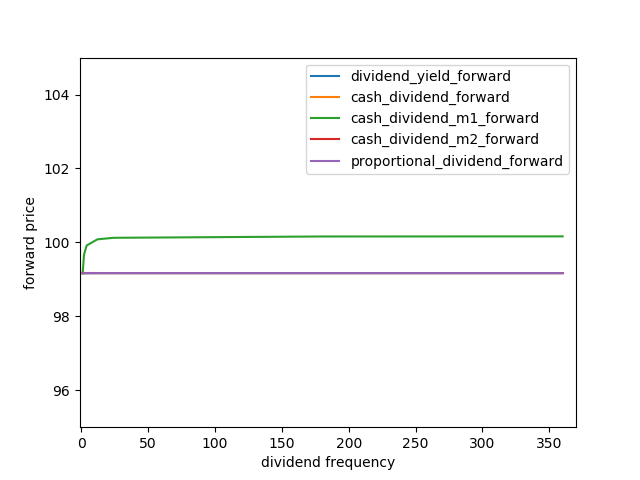
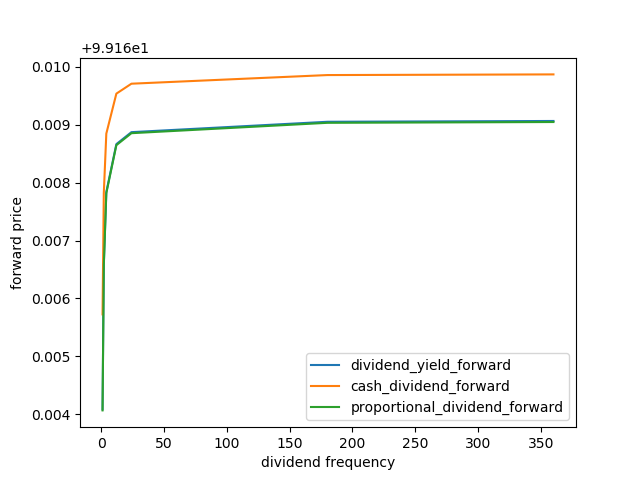
+ Frishling models

diff --git a/main.py b/main.py
@@ -15,39 +15,6 @@ market = MarketData(spot=S0, vol=vol, r=r)
 delta = 0.01
 
 # TODO: this div amount is inconsistent with the rest
-'''market.set_div(div_amount=0.01, div_type=DividendType.ContinuousYield)
-
-K = 100
-T = 360
-t = 0
-option = EuropeanOption(K=K, T=T, t=t, cp=1)
-forward = Forward(K=0.0, T=T, t=t, cp=1)
-n_path = 100000
-model = MonteCarlo(n_path, t, T)
-
-Price(option, market, Analytic())
-market.reset_div()
-dividend1 = market.div_convert(div_amount=delta, fr_type=DividendType.DiscreteProp,
-                               to_type=DividendType.ContinuousYield)
-market.set_div(div_amount=dividend1, div_type=DividendType.ContinuousYield)
-Price(option, market, model)
-Price(forward, market, model)
-
-market.reset_div()
-d = market.div_convert(div_amount=delta, fr_type=DividendType.DiscreteProp, to_type=DividendType.DiscreteCash)
-dividend2 = np.zeros(360)
-dividend2[179] = d  # d = S0*e^(rt)*delta
-market.set_div(div_amount=dividend2, div_type=DividendType.DiscreteCash)
-Price(option, market, model)
-Price(forward, market, model)
-
-market.reset_div()
-dividend3 = np.zeros(360)
-dividend3[179] = delta
-market.set_div(div_amount=dividend3, div_type=DividendType.DiscreteProp)
-Price(option, market, model)
-Price(forward, market, model)'''
-
 market.set_div(div_amount=0.01, frequency=180, div_type=DividendType.ContinuousYield)
 
 K = 100
@@ -72,8 +39,6 @@ Price(forward, market, model)
 # discrete cash
 market.reset_div()
 d = market.div_convert(div_amount=delta, frequency=1, fr_type=DividendType.DiscreteProp, to_type=DividendType.DiscreteCash)
-'''dividend2 = np.zeros(360)
-dividend2[179] = d  # d = S0*e^(rt)*delta'''
 market.set_div(div_amount=d, frequency=1, div_type=DividendType.DiscreteCash)
 Price(option, market, model)
 Price(forward, market, model)
@@ -94,8 +59,6 @@ Price(forward, market, model)
 
 # discrete proportional
 market.reset_div()
-'''dividend3 = np.zeros(360)
-dividend3[179] = delta'''
 market.set_div(div_amount=delta, frequency=1, div_type=DividendType.DiscreteProp)
 Price(option, market, model)
 Price(forward, market, model)
@@ -188,11 +151,11 @@ np.save('./results/cash_dividend_m1_freq.npy', cash_dividend_freq)
 np.save('./results/cash_dividend_m2_freq.npy', cash_dividend_freq)
 np.save('./results/proportional_dividend_freq.npy', proportional_dividend_freq)
 
-plt.axis([-1,370,3,6])
+#plt.axis([-1,370,3,6])
 plt.plot(frequency, dividend_yield_freq, label='dividend_yield')
 plt.plot(frequency, cash_dividend_freq, label='cash_dividend')
-plt.plot(frequency, cash_dividend_m1_freq, label='cash_dividend_m1')
-plt.plot(frequency, cash_dividend_m2_freq, label='cash_dividend_m2')
+#plt.plot(frequency, cash_dividend_m1_freq, label='cash_dividend_m1')
+#plt.plot(frequency, cash_dividend_m2_freq, label='cash_dividend_m2')
 plt.plot(frequency, proportional_dividend_freq, label='proportional_dividend')
 plt.legend()
 plt.xlabel('dividend frequency')
@@ -202,20 +165,39 @@ plt.show()
 
 np.save('./results/dividend_yield_forward.npy', dividend_yield_forward)
 np.save('./results/cash_dividend_forward.npy', cash_dividend_forward)
-np.save('./results/cash_dividend_m1_forward.npy', cash_dividend_forward)
-np.save('./results/cash_dividend_m2_forward.npy', cash_dividend_forward)
+np.save('./results/cash_dividend_m1_forward.npy', cash_dividend_m1_forward)
+np.save('./results/cash_dividend_m2_forward.npy', cash_dividend_m2_forward)
 np.save('./results/proportional_dividend_forward.npy', proportional_dividend_forward)
 
-plt.axis([-1,370,95,105])
+#plt.axis([-1,370,95,105])
 plt.plot(frequency, dividend_yield_forward, label='dividend_yield_forward')
 plt.plot(frequency, cash_dividend_forward, label='cash_dividend_forward')
-plt.plot(frequency, cash_dividend_m1_forward, label='cash_dividend_m1_forward')
-plt.plot(frequency, cash_dividend_m2_forward, label='cash_dividend_m2_forward')
+#plt.plot(frequency, cash_dividend_m1_forward, label='cash_dividend_m1_forward')
+#plt.plot(frequency, cash_dividend_m2_forward, label='cash_dividend_m2_forward')
 plt.plot(frequency, proportional_dividend_forward, label='proportional_dividend_forward')
 plt.legend()
 plt.xlabel('dividend frequency')
 plt.ylabel('forward price')
 plt.savefig("./results/frequency-forward.png")
+plt.show()
+
+
+plt.plot(frequency, cash_dividend_freq, label='cash_dividend')
+plt.plot(frequency, cash_dividend_m1_freq, label='cash_dividend_m1')
+plt.plot(frequency, cash_dividend_m2_freq, label='cash_dividend_m2')
+plt.legend()
+plt.xlabel('dividend frequency')
+plt.ylabel('European call price (cash dividend)')
+plt.savefig("./results/frequency-price_cash.png")
+plt.show()
+
+plt.plot(frequency, cash_dividend_forward, label='cash_dividend_forward')
+plt.plot(frequency, cash_dividend_m1_forward, label='cash_dividend_m1_forward')
+plt.plot(frequency, cash_dividend_m2_forward, label='cash_dividend_m2_forward')
+plt.legend()
+plt.xlabel('dividend frequency')
+plt.ylabel('forward price (cash dividend)')
+plt.savefig("./results/frequency-forward_cash.png")
 plt.show()
 
 print(dividend_yield_freq)

diff --git a/PricingModel.py b/PricingModel.py
@@ -49,30 +49,24 @@ class MonteCarlo(PricingModel):
 
         d1 = np.zeros(n_timestep)
         delta1 = np.zeros(n_timestep)
-        d_m1 = np.zeros(n_timestep)
-        d_m2 = np.zeros(n_timestep)
-        #print(q,d,d_model1,d_model2,delta)
         ST = np.array([S0] * self.n_path)  # S0
         if frequency!=0:
             dt = 360//frequency
             if d is not None:
                 for j in range(1,frequency+1):
                     d1[j*dt-1] = d
-                #print('frequency cash', frequency, sum(d1))
-                #d1[dt-1::dt] = np.ones(len(d1[dt-1::dt])) * d
             elif delta is not None:
                 for j in range(1,frequency+1):
                     delta1[j*dt-1] = delta / frequency
-                #print('frequency delta', frequency, sum(delta1))
             elif d_model1 is not None:
-                #ST = np.array([S0 - d_model1 * math.exp(-r * (T - t) / 360)] * self.n_path)  # S0
-                ST = np.array([S0 - d_model1 * math.exp(-r * (T - t))] * self.n_path)  # S0
+                discount_PV = 0
+                for j in range(1, frequency + 1):
+                    discount_PV += math.exp(-r * (j + 1) * dt)
+                ST = np.array([S0 - d_model1 * discount_PV] * self.n_path)  # S0
             elif d_model2 is not None:
                 dividend_FV = 0
                 for j in range(1, frequency + 1):
-                    #dividend_FV += math.exp(-r * (j + 1) * dt / 360)
                     dividend_FV += math.exp(-r * (j + 1) * dt)
-                #dividend_FV = dividend_FV * d_model2 * math.exp(t * (T-t)/360)
                 dividend_FV = dividend_FV * d_model2 * math.exp(r * (T - t))
 
         for i in range(0, T - t):

diff --git a/MarketData.py b/MarketData.py
@@ -63,10 +63,11 @@ class MarketData:
                                                                    DividendType.DiscreteCash_m2):
             # same conversion for all cash dividend
             # TODO: remove hard code
-            #return div_amount * self.spot * math.exp(self.r / 360 * 180)
-            #dt = frequency/360
-            #return div_amount/frequency * self.spot * math.exp(self.r * dt)
-            return self.spot * (1 - pow(1 - div_amount/frequency, frequency)) / (1 - math.exp(-self.r*1)) * (math.exp(self.r/frequency)-1)
+            dt = 360//frequency
+            dt = dt/360
+            return self.spot * (1 - pow(1 - div_amount / frequency, frequency)) * math.exp(self.r * dt) / (
+                1 - math.exp(-self.r * 1)) * (1 - math.exp(-self.r * dt))
+
         elif fr_type == DividendType.DiscreteProp and to_type == DividendType.ContinuousYield:
             # TODO: remove hard code
             return - frequency * math.log(1 - div_amount/frequency) / 360
